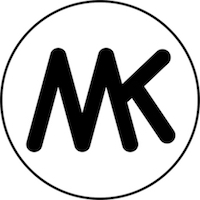
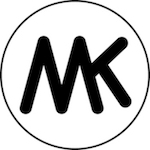
add tags

diff --git a/agregar.html b/agregar.html
@@ -7,7 +7,10 @@
     <link rel="stylesheet" href="css/bootstrap.min.css">
     <link rel="stylesheet" href="css/index.css">
     <script src="js/key-gen.js"></script>
-    <link href="https://fonts.googleapis.com/css?family=Bubbler+One" rel="stylesheet">         
+    <link href="https://fonts.googleapis.com/css?family=Bubbler+One" rel="stylesheet">
+    <link rel="stylesheet" href="https://maxcdn.bootstrapcdn.com/bootstrap/3.3.7/css/bootstrap.min.css">
+    <script src="https://ajax.googleapis.com/ajax/libs/jquery/3.2.1/jquery.min.js"></script>
+    <script src="https://maxcdn.bootstrapcdn.com/bootstrap/3.3.7/js/bootstrap.min.js"></script>         
   </head>
   <body>
     <br>
@@ -25,13 +28,14 @@
       <form id="sendDatos">
         <div class="form-group">
             <label>Usuario:</label>
-            <input class="form-control" id="usuario" type="text" required>
+            <input class="form-control" id="usuario" type="text" required data-toggle="tooltip" data-placement="bottom" title="Pegar Ctrl+V">
         </div>
         <div class="form-group">
             <label>Sitio:</label>
-            <input class="form-control" id="sitio" type="text" placeholder="https://" required>
+            <input class="form-control" id="sitio" type="text" placeholder="https://" required data-toggle="tooltip" data-placement="bottom" title="Pegar Ctrl+V">
         </div>        
-        <div id="pass" class="form-group">
+        <div id="pass" class="form-group" data-toggle="tooltip" data-placement="bottom" title="Copiar Ctrl+C">
+        <input type="text" class="form-control" id="contraseña" value="contraseña">
           <script type="text/javascript">
             generar(12);
           </script>
@@ -48,6 +52,13 @@
     <script src="js/webSQL.js"></script>
     <script src="js/jQuery.js"></script>    
     <script src="js/bootstrap.min.js"></script>
-     
+    <script type="text/javascript" src="jquery.js"></script>
+    
+   <script>
+    $(document).ready(function(){
+    $('[data-toggle="tooltip"]').tooltip();   
+    });
+    $("#contraseña").select();
+  </script>
   </body>
 </html>

diff --git a/concentrado.html b/concentrado.html
@@ -18,7 +18,7 @@
         <div class="navbar-header">
         <a href="concentrado.html" class="navbar-brand">MASTER KEY</a>
           <div class="input-group col-sm-2">
-            <input type="text" class="form-control" id="search" placeholder="Buscar" onkeyup="buscar()">
+            <input type="text" class="form-control" id="search" placeholder="Buscar" onkeyup="buscar()" data-toggle="tooltip" data-placement="bottom" title="Pegar Ctrl+V">
             <span class="input-group-btn">
               <button class="btn btn-default" type="button">
                 <span class="glyphicon glyphicon-search"></span>
@@ -40,7 +40,7 @@
           </tr>            
           <script type="text/javascript">
             read();        
-            setInterval(function(){ timeout() }, 30000);
+            setInterval(function(){ timeout() }, 300000);
           </script>
         </table>
        </form>         

diff --git a/css/index.css b/css/index.css
@@ -3,7 +3,7 @@ h1{
   color: black;
 }
 img {
-  width: 160px;
+  width: 120px;
 }
 table{
   border-collapse:initial;
@@ -20,7 +20,7 @@ table{
   margin-left: 40%;
 } 
 .td-w{
-  width: 76px;
+  width: 50px;
 }
 .btn-T{
   padding: 4px 8px;
@@ -109,7 +109,8 @@ td.t-p img{
   margin: auto;
   }
   #masterk{
-  width: 600px;
+  min-width: 500px;
+  max-width: 650px;
   height: 314px;
   margin: auto;
   }

diff --git a/main.js b/main.js
@@ -8,9 +8,9 @@ let mainWindow
 
 function createWindow () {
   mainWindow = new BrowserWindow({
-    width: 700, 
-    height: 645,
-    resizable: false
+    width: 600, 
+    height: 665,
+    //resizable: false
   })
   mainWindow.webContents.openDevTools()
   

diff --git a/README.md b/README.md
@@ -27,6 +27,6 @@ npm run dist
 
 # Windows
 npm run package-win
-# Directamente en Windows, para crear un .???
+# Directamente en Windows, para crear un .exe
 npm run dist
 ```
